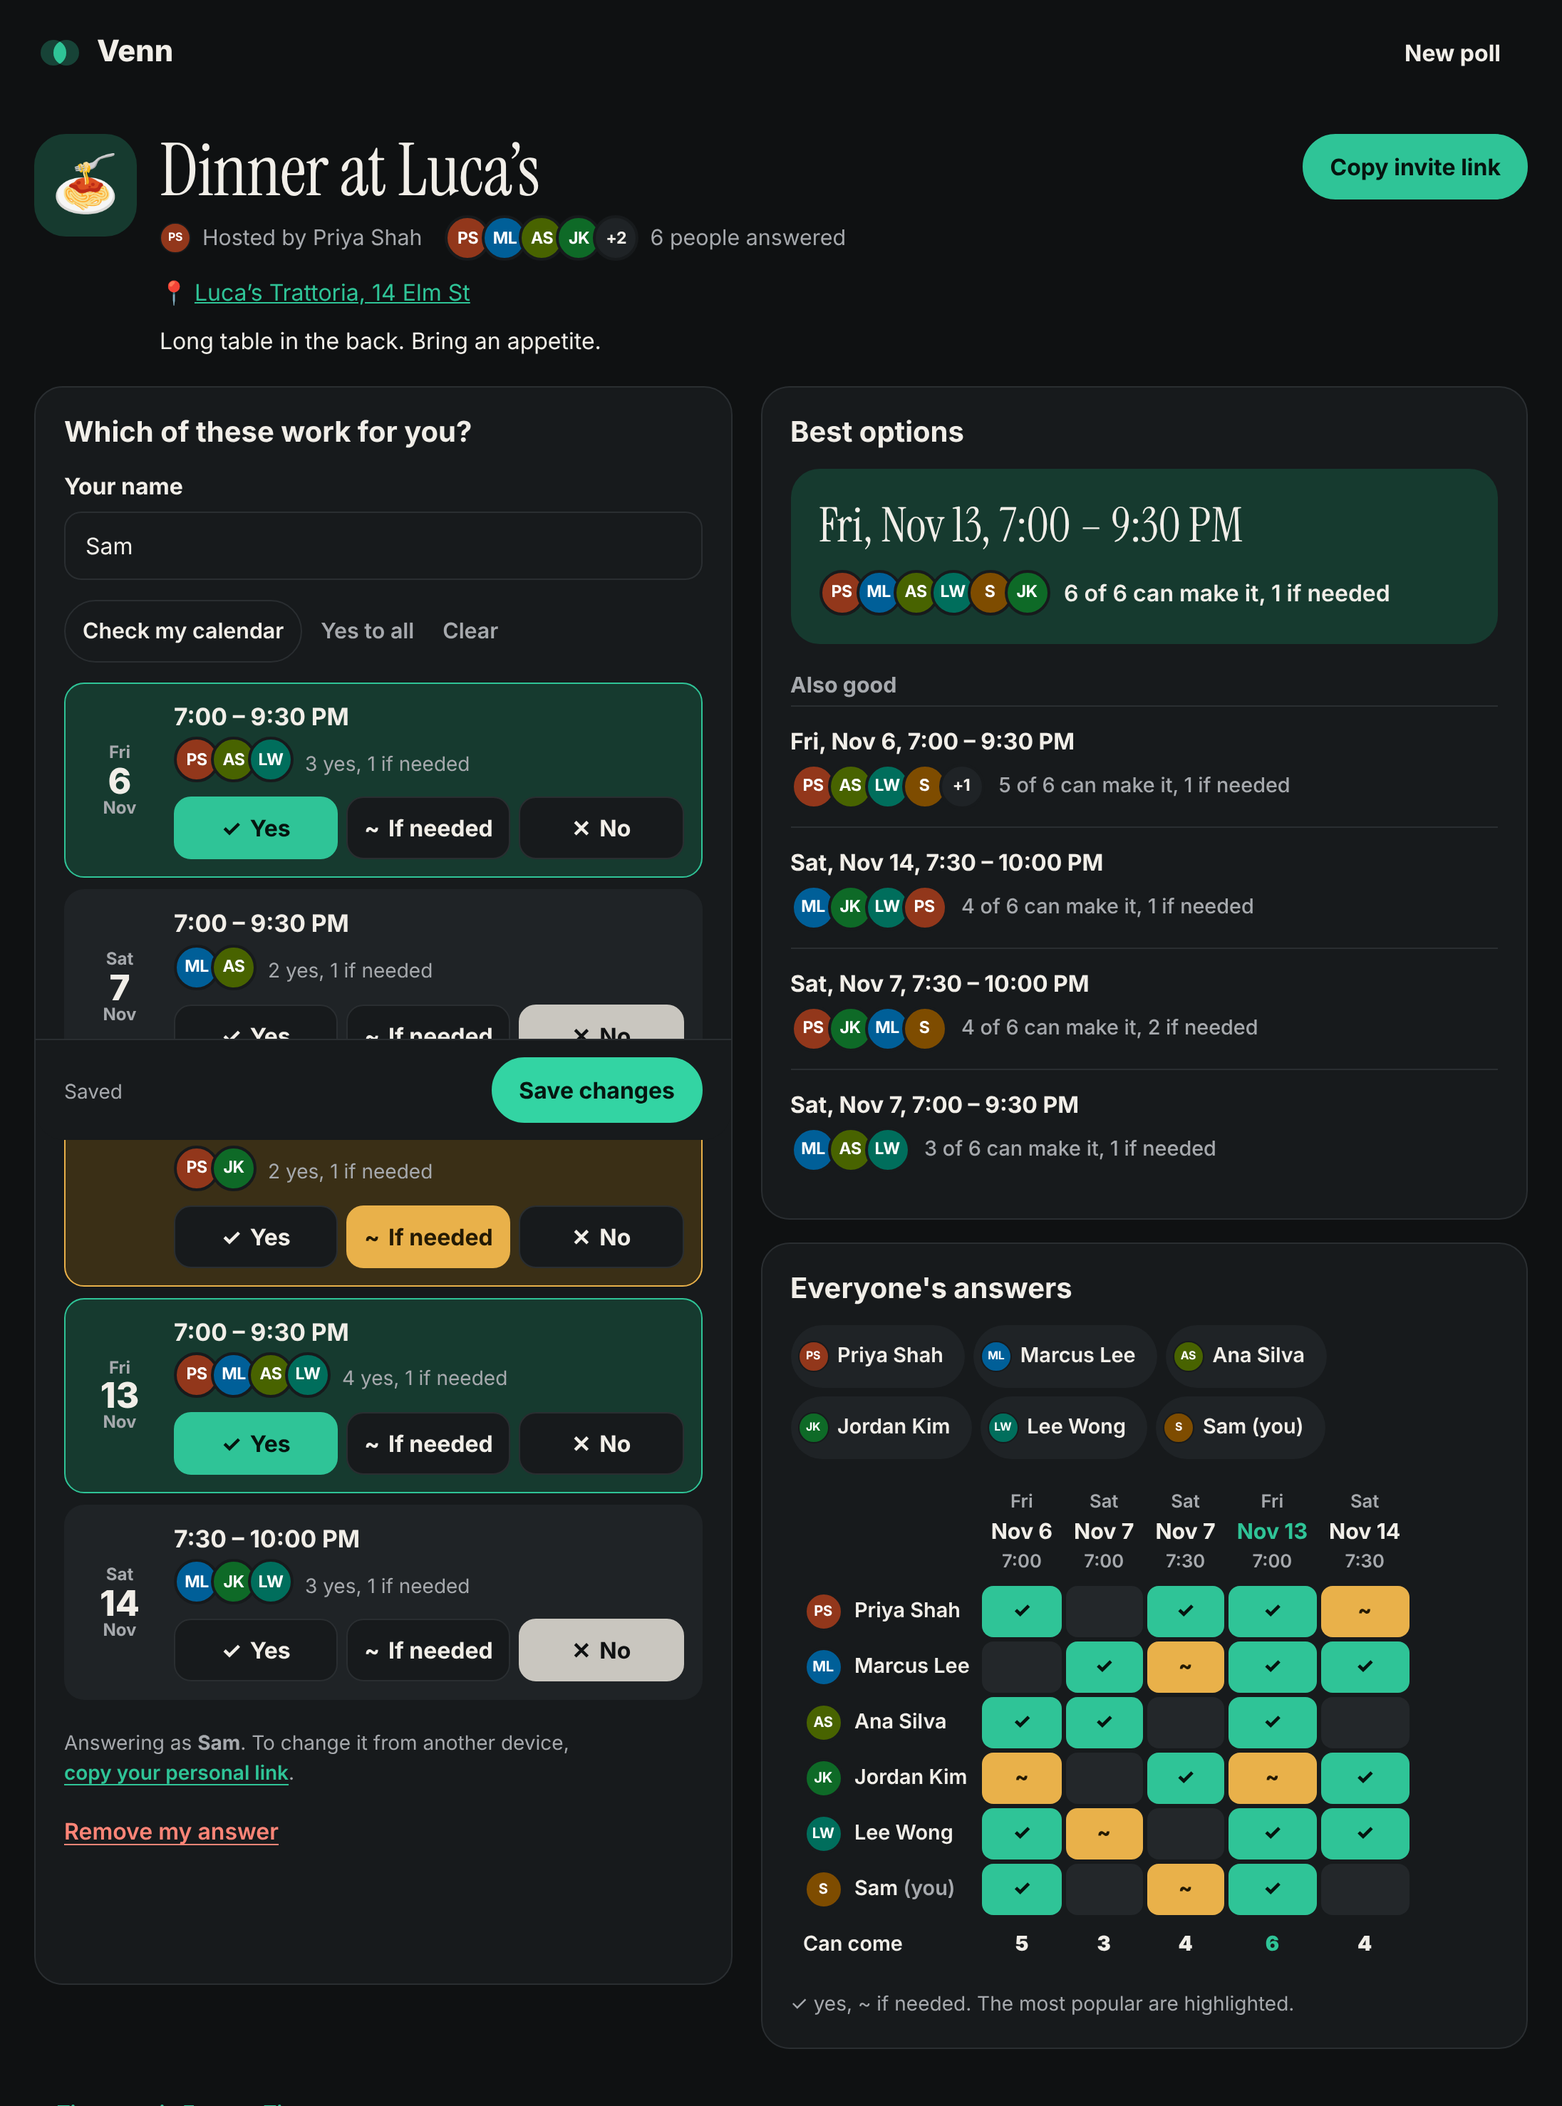
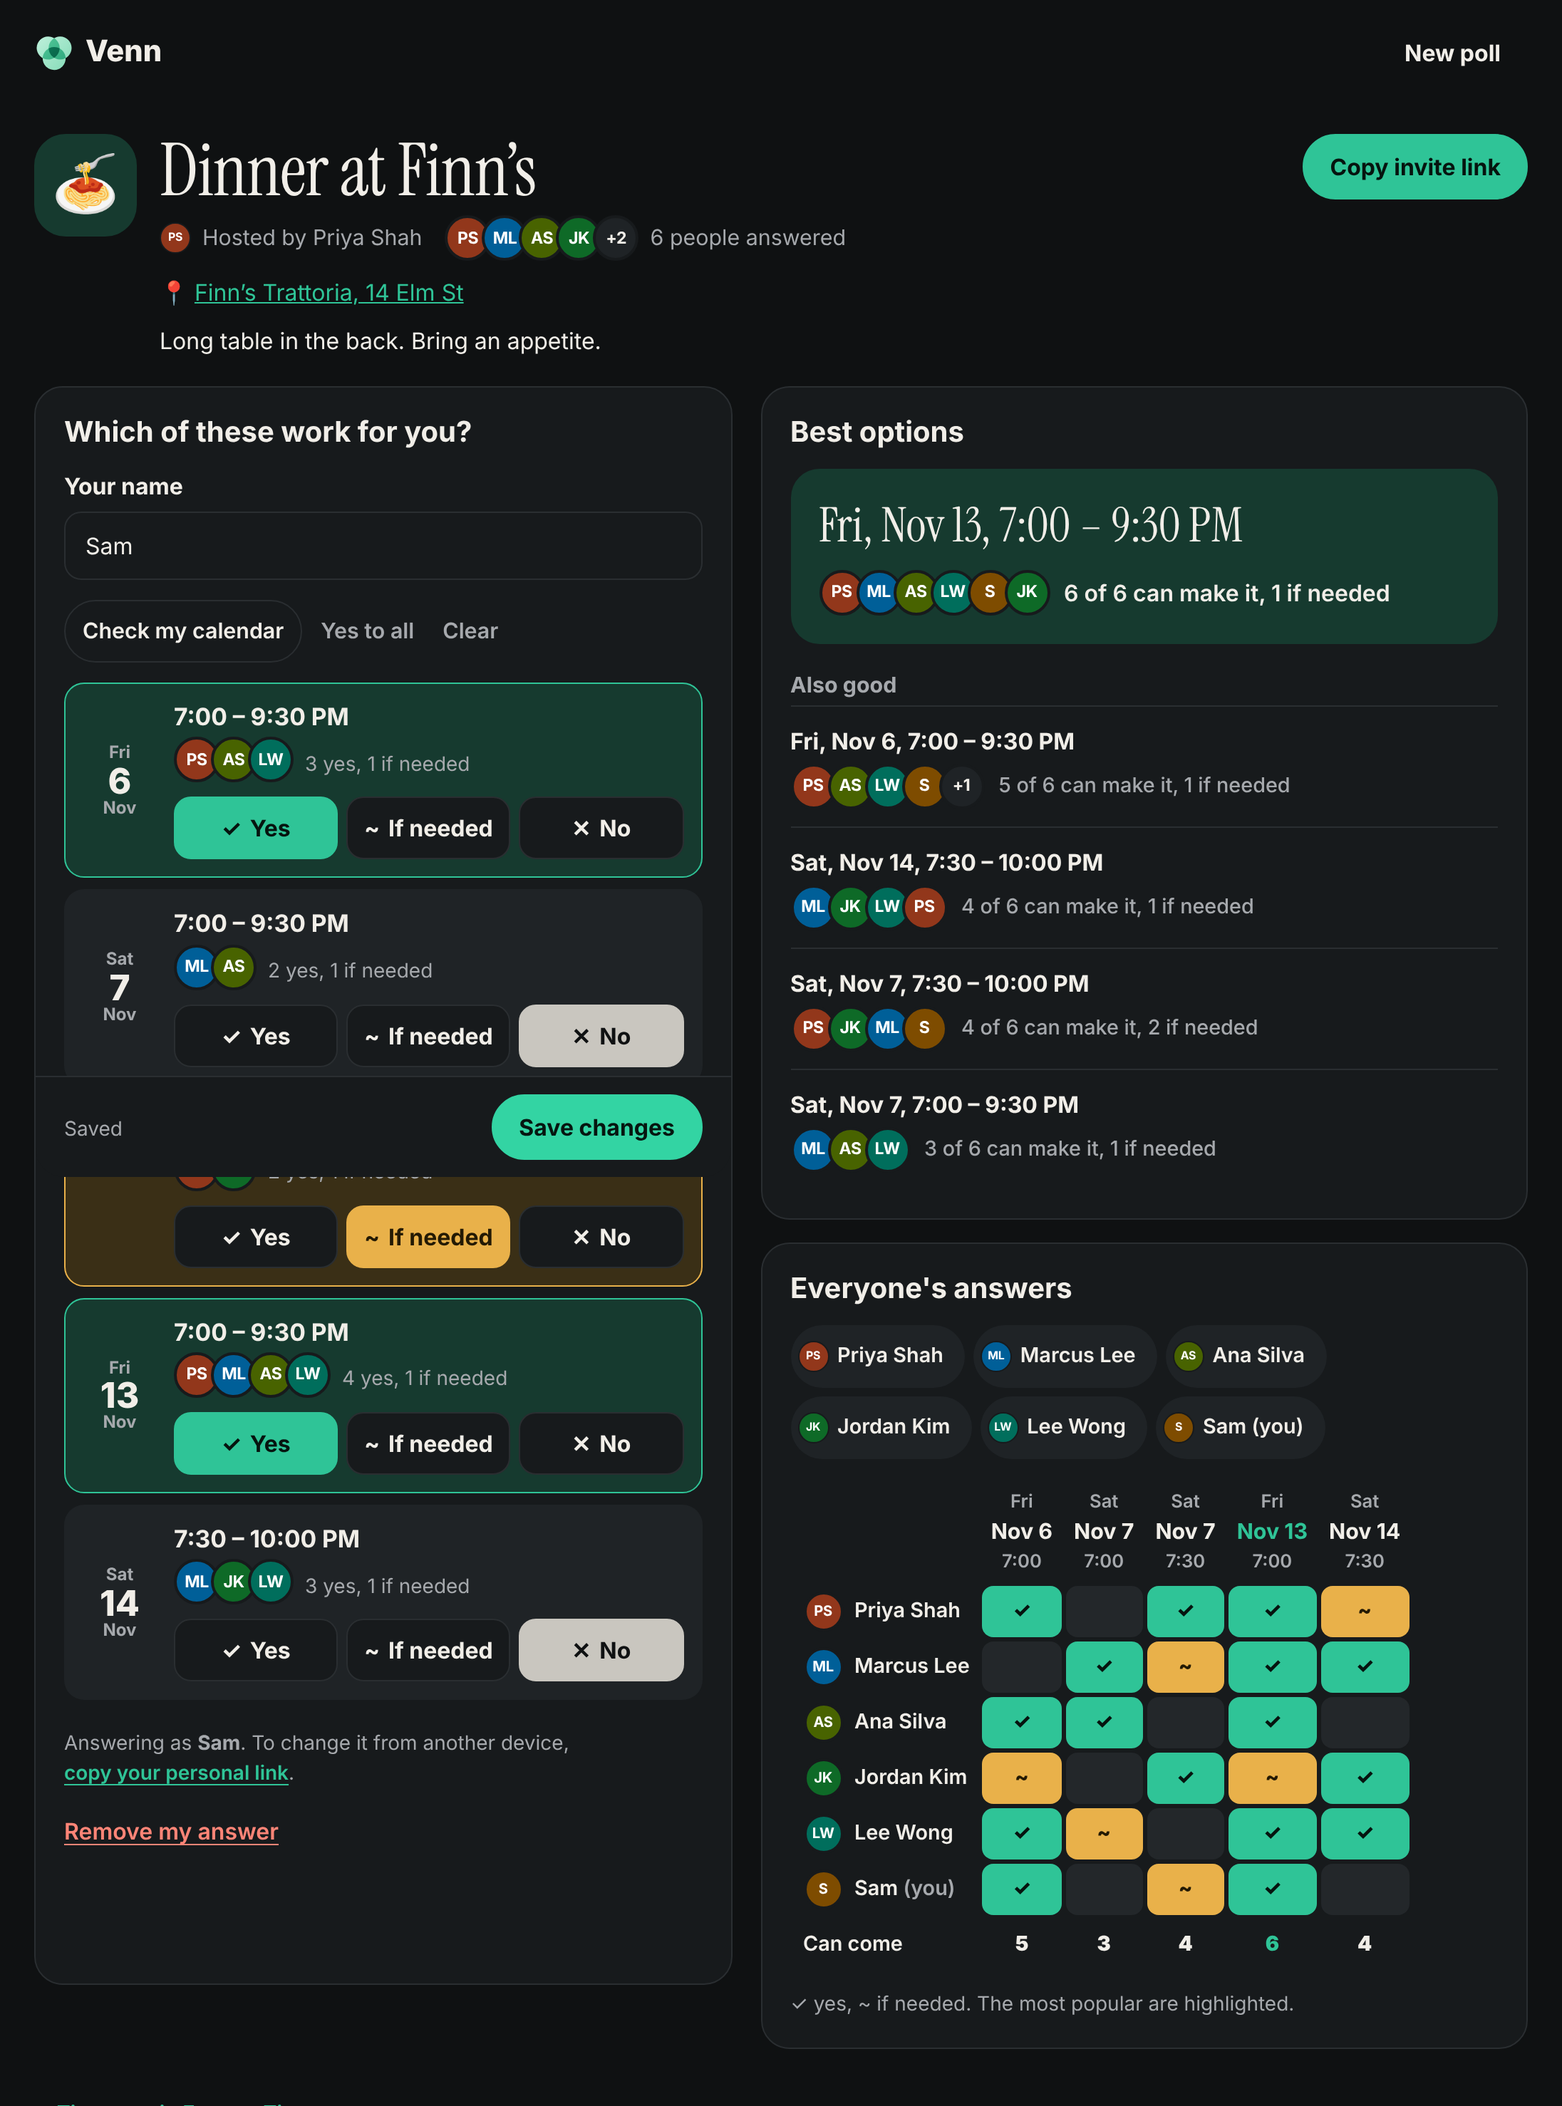
Show 'Less group chat. More plans.' instead of a screenshot, and use Finn's
- The For groups section replaces the cluttered product screenshot with
  an HTML and CSS illustration: a group chat going back and forth, then
  the Venn result card for Dinner at Finn's, with everyone's initials and
  Add to calendar. One role=img with a description for screen readers.
- Example names use Finn's instead of Luca's: the hero and create
  placeholders, the screenshot script (README images regenerated), and a
  unit test
- public/img and the screenshot script's WebP step are removed; the
  landing page no longer uses product screenshots
- DESIGN.md describes the illustration and the example names

Claude-Session: https://claude.ai/code/session_0165PeHYDGpycZrJhnd8mot5

diff --git a/scripts/screenshots.js b/scripts/screenshots.js
@@ -1,6 +1,5 @@
-// Regenerates the README images (docs/screenshots/*.png, docs/demo.gif) and the landing page's
-// product shots (public/img/results-*.webp and mobile-*.webp): `npm run screenshots`.
-// Needs Playwright's Chromium (`npx playwright install chromium`) and ffmpeg (for the GIF and WebP).
+// Regenerates the README images (docs/screenshots/*.png, docs/demo.gif): `npm run screenshots`.
+// Needs Playwright's Chromium (`npx playwright install chromium`) and ffmpeg (for the GIF).
 
 import { execFileSync } from 'node:child_process';
 import { mkdirSync, rmSync, readdirSync } from 'node:fs';
@@ -12,7 +11,6 @@ import { zonedToUtc, addDays, weekdayOf } from '../public/core.js';
 
 const root = join(dirname(fileURLToPath(import.meta.url)), '..');
 const out = join(root, 'docs', 'screenshots');
-const web = join(root, 'public', 'img');
 const TZ = 'America/New_York';
 mkdirSync(out, { recursive: true });
 
@@ -59,9 +57,9 @@ const toAvailability = (votes) => Object.fromEntries(OPTIONS.map((o, i) => [o.st
 
 async function seedPoll() {
   const { id, adminToken } = await api('/api/events', {
-    title: 'Dinner at Luca’s',
+    title: 'Dinner at Finn’s',
     emoji: '🍝',
-    location: 'Luca’s Trattoria, 14 Elm St',
+    location: 'Finn’s Trattoria, 14 Elm St',
     description: 'Long table in the back. Bring an appetite.',
     organizer: 'Priya Shah',
     timezone: TZ,
@@ -93,14 +91,6 @@ async function shoot(page, selector, path, { from, crop, pad = 24 } = {}) {
     fullPage: true,
     clip: { x, y: top, width: Math.min(width, c.right + pad) - x, height: bottom - top },
   });
-}
-
-/** The landing page uses WebP copies of some screenshots. */
-function toWebp(png, name) {
-  execFileSync('ffmpeg', [
-    ...['-y', '-loglevel', 'error', '-i', png, '-vf', "scale='min(1600,iw)':-2"],
-    ...['-c:v', 'libwebp', '-quality', '80', join(web, `${name}.webp`)],
-  ]);
 }
 
 const browser = await chromium.launch(process.env.CHROMIUM_PATH ? { executablePath: process.env.CHROMIUM_PATH } : {});
@@ -140,13 +130,12 @@ async function stills(dark) {
   await answerAsSam(desktop, id);
   await desktop.addStyleTag({ content: HIDE_TOAST });
   await shoot(desktop, '#panel-group', join(out, `results-${suffix}.png`), { crop: '#event-root' });
-  toWebp(join(out, `results-${suffix}.png`), `results-${suffix}`);
 
   await desktop.goto(`${base}/new/pick`);
   await desktop.addStyleTag({ content: HIDE_TOAST });
   await desktop.click('[data-occasion="0"]');
-  await desktop.fill('#title', 'Dinner at Luca’s');
-  await desktop.fill('#location', 'Luca’s Trattoria, 14 Elm St');
+  await desktop.fill('#title', 'Dinner at Finn’s');
+  await desktop.fill('#location', 'Finn’s Trattoria, 14 Elm St');
   for (const d of [0, 1, 7, 8]) {
     const date = addDays(fri, d);
     if (!(await desktop.locator(`[data-date="${date}"]`).count())) await desktop.click('[data-nav="1"]');
@@ -167,7 +156,6 @@ async function stills(dark) {
     window.scrollTo(0, document.querySelector('.tabs').getBoundingClientRect().top + window.scrollY - 12),
   );
   await phone.screenshot({ path: join(out, `mobile-${suffix}.png`) });
-  toWebp(join(out, `mobile-${suffix}.png`), `mobile-${suffix}`);
   await phone.context().close();
 }
 
@@ -216,7 +204,7 @@ async function recordDemo() {
   await page.waitForTimeout(700);
   await click('a[href="/new/pick"]', 600);
   await click('[data-occasion="0"]', 300);
-  await type('#title', 'Dinner at Luca’s');
+  await type('#title', 'Dinner at Finn’s');
   for (const d of [0, 1, 7, 8]) {
     const date = addDays(fri, d);
     if (!(await page.locator(`[data-date="${date}"]`).count())) await click('[data-nav="1"]', 300);

diff --git a/public/site.css b/public/site.css
@@ -486,7 +486,7 @@ h2 em {
 /* For groups */
 .groups {
   display: grid;
-  grid-template-columns: minmax(0, 1fr) minmax(0, 1.1fr);
+  grid-template-columns: minmax(0, 0.85fr) minmax(0, 1.25fr);
   gap: 64px;
   align-items: center;
 }
@@ -522,22 +522,117 @@ h3 {
   margin: 0;
   color: var(--ink-2);
 }
-.shot {
+/* "Less group chat. More plans.": a messy chat, then the one clear answer. */
+.story {
   margin: 0;
-  padding: clamp(14px, 3vw, 28px) clamp(14px, 3vw, 28px) 0;
-  background: linear-gradient(160deg, var(--mint) 0%, var(--paper-2) 60%);
-  border-radius: 24px;
-  overflow: hidden;
-  max-height: 620px;
-  -webkit-mask-image: linear-gradient(to bottom, #000 75%, transparent);
-  mask-image: linear-gradient(to bottom, #000 75%, transparent);
+  display: grid;
+  grid-template-columns: minmax(0, 1fr) auto minmax(0, 1.1fr);
+  align-items: center;
+  gap: 18px;
 }
-.shot img {
+.chat {
+  padding: 16px;
+  background: var(--paper-2);
+  border: 1px solid var(--line);
+  border-radius: 22px;
+  transform: rotate(-2deg);
+}
+.chat-head {
+  margin: 0 0 10px;
+  font-size: 0.75rem;
+  font-weight: 600;
+  letter-spacing: 0.08em;
+  text-transform: uppercase;
+  color: var(--ink-2);
+}
+.msg {
+  width: fit-content;
+  max-width: 100%;
+  margin: 0 0 6px;
+  padding: 6px 11px 7px;
+  border-radius: 14px 14px 14px 4px;
+  background: var(--card);
+  border: 1px solid var(--line);
+  font-size: 0.875rem;
+  line-height: 1.35;
+}
+.msg b {
   display: block;
-  width: 100%;
-  height: auto;
-  border-radius: 14px 14px 0 0;
-  box-shadow: var(--shot-shadow);
+  font-size: 0.6875rem;
+  color: var(--ink-2);
+}
+.msg-me {
+  margin: 8px 0 0 auto;
+  border: 0;
+  border-radius: 14px 14px 4px 14px;
+  background: var(--green);
+  color: var(--green-ink);
+}
+.story-arrow {
+  font-size: 1.75rem;
+  color: var(--green);
+}
+.result {
+  padding: 22px;
+  background: var(--card);
+  border-radius: 24px;
+  box-shadow: var(--card-shadow);
+}
+.result-head {
+  display: flex;
+  align-items: center;
+  gap: 8px;
+  margin: 0 0 18px;
+  font-weight: 700;
+}
+.result-label {
+  display: inline-block;
+  margin: 0 0 6px;
+  padding: 3px 10px;
+  border-radius: 999px;
+  background: var(--green-soft);
+  color: var(--green-deep);
+  font-size: 0.8125rem;
+  font-weight: 700;
+}
+.result-date {
+  margin: 0 0 16px;
+  font: 400 clamp(1.6rem, 2.4vw, 2.1rem) / 1.05 var(--serif);
+  white-space: nowrap;
+}
+.faces {
+  display: flex;
+  align-items: center;
+  margin-bottom: 18px;
+}
+.faces span {
+  display: grid;
+  place-items: center;
+  width: 34px;
+  height: 34px;
+  margin-right: -8px;
+  border-radius: 50%;
+  border: 2px solid var(--card);
+  background: hsl(var(--h) 55% 30%);
+  color: #fff;
+  font-size: 0.6875rem;
+  font-weight: 700;
+}
+.faces em {
+  margin-left: 18px;
+  font-style: normal;
+  font-weight: 600;
+  color: var(--ink-2);
+  font-size: 0.875rem;
+}
+.result-cta {
+  margin: 0;
+  padding: 12px;
+  border-radius: 14px;
+  background: linear-gradient(135deg, var(--cta-from) 0%, var(--cta-to) 100%);
+  color: var(--cta-ink);
+  text-align: center;
+  font-weight: 700;
 }
 
 /* For developers */
@@ -710,6 +805,9 @@ h3 {
     grid-template-columns: minmax(0, 1fr);
     gap: 48px;
   }
+  .story {
+    max-width: 560px;
+  }
 }
 @media (max-width: 640px) {
   :root {
@@ -750,8 +848,16 @@ h3 {
     border-radius: 22px;
   }
   .start-choices,
-  .dev-points {
+  .dev-points,
+  .story {
     grid-template-columns: minmax(0, 1fr);
+  }
+  .story-arrow {
+    justify-self: center;
+    transform: rotate(90deg);
+  }
+  .chat {
+    transform: none;
   }
   .cta-row .btn {
     flex: 1 1 100%;

diff --git a/public/index.html b/public/index.html
@@ -87,7 +87,7 @@
               name="title"
               type="text"
               maxlength="120"
-              placeholder="Dinner at Luca's"
+              placeholder="Dinner at Finn's"
               autocomplete="off"
               enterkeyhint="go"
             />
@@ -139,19 +139,32 @@
               </li>
             </ul>
           </div>
-          <figure class="shot">
-            <picture>
-              <source media="(max-width: 640px) and (prefers-color-scheme: dark)" srcset="/img/mobile-dark.webp" />
-              <source media="(max-width: 640px)" srcset="/img/mobile-light.webp" />
-              <source media="(prefers-color-scheme: dark)" srcset="/img/results-dark.webp" />
-              <img
-                src="/img/results-light.webp"
-                width="1600"
-                height="2138"
-                loading="lazy"
-                alt="A dinner poll in Venn: each suggested evening with Yes, If needed and No answers, and the best options ranked with who can make them"
-              />
-            </picture>
+          <figure
+            class="story"
+            role="img"
+            aria-label="A group chat going back and forth about which day works, next to a Venn poll for Dinner at Finn's showing Friday, November 13 at 7 PM works for all six people"
+          >
+            <div class="chat" aria-hidden="true">
+              <p class="chat-head">Dinner crew · 6</p>
+              <p class="msg"><b>Priya</b>Dinner next week? Tuesday?</p>
+              <p class="msg"><b>Marcus</b>Can't do Tue, sorry</p>
+              <p class="msg"><b>Ana</b>Wed or Thu?</p>
+              <p class="msg"><b>Jordan</b>Thu's out for me</p>
+              <p class="msg"><b>Lee</b>wait which week</p>
+              <p class="msg msg-me">ok I'll just make a poll</p>
+            </div>
+            <div class="story-arrow" aria-hidden="true">→</div>
+            <div class="result" aria-hidden="true">
+              <p class="result-head"><img src="/favicon.svg?v=5" width="20" height="20" alt="" /> Dinner at Finn's</p>
+              <p class="result-label">Everyone can make it</p>
+              <p class="result-date">Fri, Nov 13 · 7:00 PM</p>
+              <div class="faces">
+                <span style="--h: 152">PS</span><span style="--h: 28">ML</span><span style="--h: 210">AG</span
+                ><span style="--h: 330">JK</span><span style="--h: 262">LW</span><span style="--h: 96">SN</span>
+                <em>6 of 6</em>
+              </div>
+              <p class="result-cta">Add to calendar</p>
+            </div>
           </figure>
         </div>
       </section>

diff --git a/test/plans.test.js b/test/plans.test.js
@@ -95,8 +95,8 @@ test('options can be all day or span several days', () => {
 });
 
 test('location and emoji are kept; anything that is not emoji is refused', () => {
-  const ev = days({ location: '  Luca’s, 12 Main St ', emoji: '🍝' });
-  assert.equal(ev.location, 'Luca’s, 12 Main St');
+  const ev = days({ location: '  Finn’s, 12 Main St ', emoji: '🍝' });
+  assert.equal(ev.location, 'Finn’s, 12 Main St');
   assert.equal(ev.emoji, '🍝');
   assert.equal(days({ emoji: '🧑🤝🧑' }).emoji, '🧑🤝🧑');
   assert.equal('location' in days(), false);

diff --git a/public/create.js b/public/create.js
@@ -88,7 +88,7 @@ function planFields(kind) {
         <span class="emoji-tile" id="emoji-tile" aria-hidden="true">🗓</span>
         <div class="grow">
           <label for="title">Name</label>
-          <input id="title" type="text" maxlength="120" placeholder="${kind === 'free' ? 'Summer cabin trip' : "Dinner at Luca's"}" required>
+          <input id="title" type="text" maxlength="120" placeholder="${kind === 'free' ? 'Summer cabin trip' : "Dinner at Finn's"}" required>
         </div>
       </div>
       <div>

diff --git a/DESIGN.md b/DESIGN.md
@@ -18,7 +18,7 @@ Every color is a CSS variable in `site.css`. Pages use the names, never raw valu
 | `--green`                 | `#0b7a5c`             | `#2fc497`             | Primary: buttons, links, the overlap                                                       |
 | `--green-ink`             | `#ffffff`             | `#06140f`             | Text on green                                                                              |
 | `--green-soft`            | `#dcefe6`             | `#163a2f`             | Tints, step numbers                                                                        |
-| `--mint`                  | `#c3f2de`             | `#1d4d3d`             | The logo's lightest shade; soft glows behind the hero and the screenshot                   |
+| `--mint`                  | `#c3f2de`             | `#1d4d3d`             | The logo's lightest shade; soft glows behind the hero                                      |
 | `--green-deep`            | `#064c39`             | `#8ff0c8`             | The logo's deepest shade; end of the call-to-action gradient                               |
 | `--cta-from` / `--cta-to` | `#0b7a5c` → `#064c39` | `#3fd8a6` → `#1f9d72` | The main call-to-action gradient; text is `--cta-ink` (white in light, near-black in dark) |
 | `--card`                  | `#ffffff`             | `#171a1c`             | The hero's start card                                                                      |
@@ -81,7 +81,8 @@ Lines stay under 65 characters. Italic serif is the only emphasis inside headlin
   All are drawn on a 16 px grid so they stay sharp in a browser tab. The home-screen icon (`icons/icon.svg`) puts the logo on `--paper`, inside the maskable safe zone. When an icon changes, bump the `?v=` on the icon links so browsers drop their cached copy.
 
 - The GitHub mark (Octicons, official) appears only on links to the repository.
-- One real product screenshot (light and dark versions), framed on `--paper-2` and faded at the bottom.
+- **"Less group chat. More plans."** is shown, not screenshotted: a slightly tilted group-chat card going back and forth, an arrow, then a crisp result card ("Dinner at Finn's", the agreed date, everyone's initials, Add to calendar). It's built in HTML and CSS, so it stays sharp and follows dark mode, and it's one `role="img"` with a description for screen readers. The landing page has no product screenshots.
+- Example names: use **Finn's** for the restaurant ("Dinner at Finn's"), and Priya, Marcus, Ana, Jordan and Lee for people.
 - Benefits use the logo as their bullet. No other icons, no emoji, no stock photos, no gradients on text.
 - Motion: only small hover lifts on the choice buttons.
 
